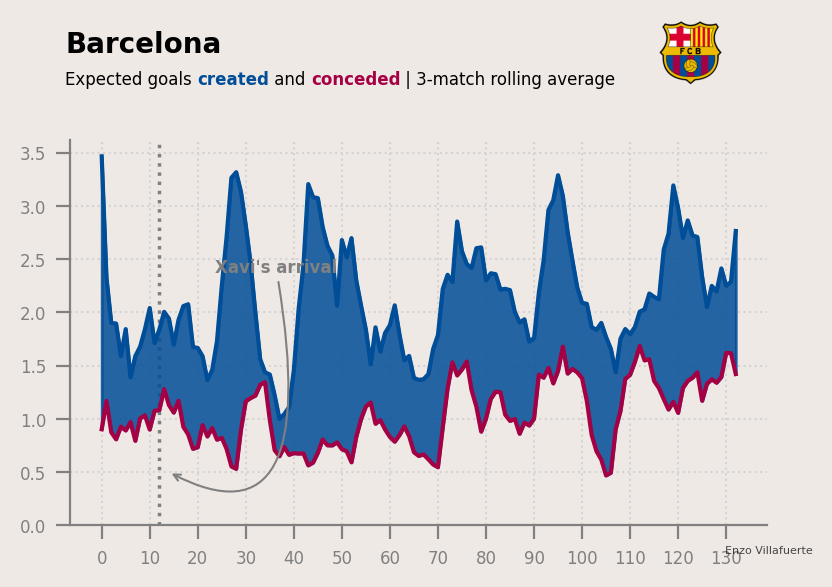
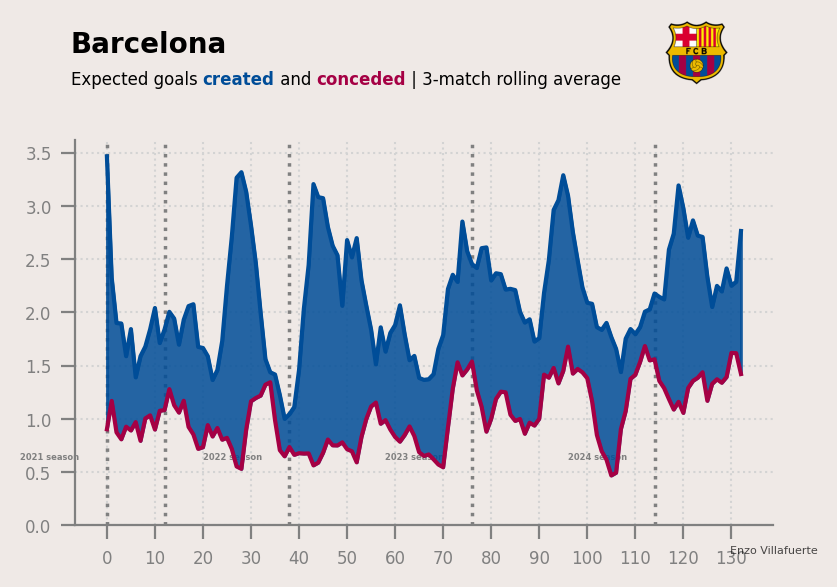
changs

diff --git a/xg_moving_average/xg_moving_average.py b/xg_moving_average/xg_moving_average.py
@@ -164,6 +164,41 @@ ax.plot(
     zorder = 2
 )
 
+
+# Automatic annotation of season differences --
+# Adding vertical lines and annotations to separate seasons
+season_boundaries = df.groupby('year').apply(lambda x: x.index[0]).tolist()
+
+# Iterate over the season boundaries and annotate the plot
+for i, boundary in enumerate(season_boundaries):
+    ax.plot(
+        [boundary, boundary],
+        [ax.get_ylim()[0], ax.get_ylim()[1]],
+        ls=":",
+        lw=1.25,
+        color="grey",
+        zorder=2
+    )
+    # Add an annotation for the season
+    ax.annotate(
+        xy=(boundary, ax.get_ylim()[1] * 0.1),
+        xytext=(-10, 10),
+        textcoords="offset points",
+        text=f"{years_list[i]} season",
+        fontweight="bold",
+        size=3,
+        color="grey",
+        ha="right"
+    )
+
+
+
+
+# End of annotation --
+
+
+# Comment out this block optional and specific to some analysis:
+"""
 # Annotation with data coordinates and offset points.
 ax.annotate(
     xy = (12, .55),
@@ -179,7 +214,7 @@ ax.annotate(
         connectionstyle="angle3,angleA=100,angleB=-30"
     ) # Arrow to connect annotation
 )
-
+"""
 # Add referencing text to el clasico
 # Add text to the plot
 """
